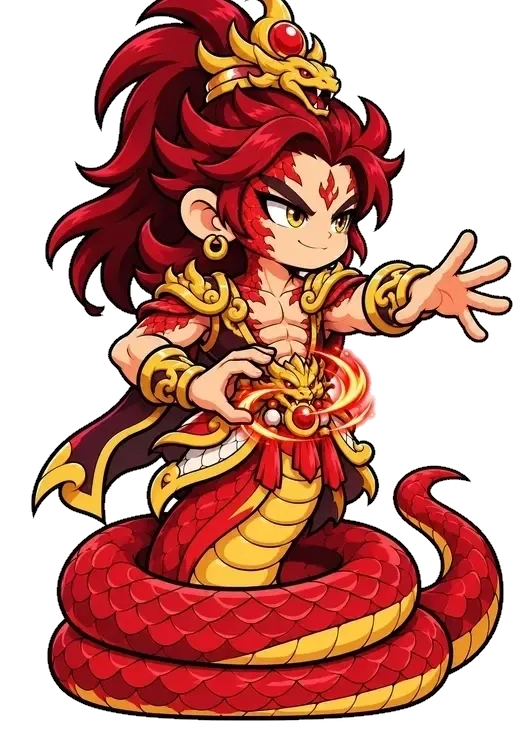
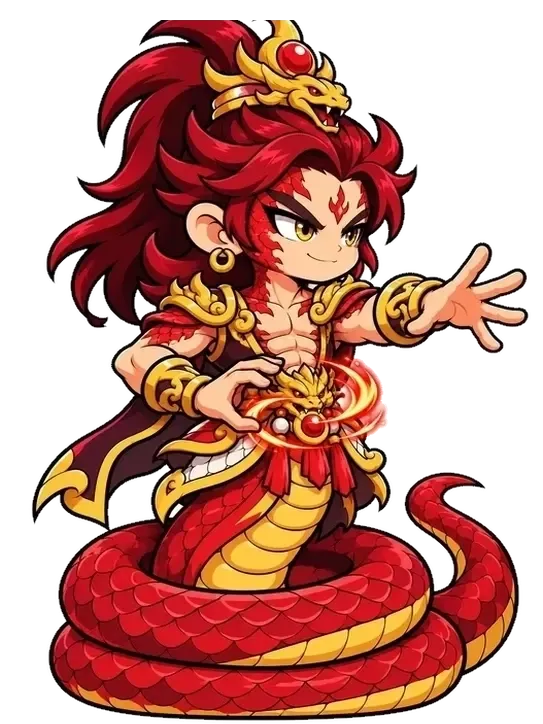
Hoan thanh dot 10: Khuong Hoang Hau, Mai Ba, Bach Hac Dong Tu (195 tuong), chuan hoa kich co dang

diff --git a/art/poses/hmeta.js b/art/poses/hmeta.js
@@ -1,1 +1,1 @@
-window.HPOSE = {"loichantu": {"H": 1201.8, "gnd": [660, 1395], "top": 0.015}, "thohanhton": {"H": 1196.0, "gnd": [512, 1387], "top": 0.033}, "thaiatchannhan": {"H": 1185.3, "gnd": [573, 1335], "top": 0.079}, "thancongbao": {"H": 1182.4, "gnd": [657, 1321], "top": 0.072}, "longnu": {"H": 1303.7, "gnd": [567, 1398], "top": 0.039}, "kimgiac": {"H": 1298.8, "gnd": [578, 1309], "top": 0.0}, "tieubachlong": {"H": 1265.8, "gnd": [517, 1412], "top": 0.018}, "thaibachkimtinh": {"H": 1135.9, "gnd": [604, 1321], "top": 0.106}, "culinhthan": {"H": 1254.2, "gnd": [575, 1394], "top": 0.026}, "hoangphongquai": {"H": 1087.4, "gnd": [479, 1364], "top": 0.026}, "khuongtanha": {"H": 1377.4, "gnd": [570, 1429], "top": 0.008}, "trieucongminh": {"H": 1368.7, "gnd": [572, 1420], "top": 0.007}, "bachcot": {"H": 1371.6, "gnd": [574, 1423], "top": 0.008}, "bodetosu": {"H": 1372.5, "gnd": [563, 1426], "top": 0.01}, "tranguyentu": {"H": 1327.9, "gnd": [551, 1403], "top": 0.025}, "hoangphiho": {"H": 1167.9, "gnd": [519, 1358], "top": 0.064}, "dienmau": {"H": 1308.5, "gnd": [543, 1398], "top": 0.035}, "thanhnguutinh": {"H": 1287.2, "gnd": [502, 1387], "top": 0.043}, "longvuong": {"H": 1262.0, "gnd": [591, 1418], "top": 0.01}, "dangthienngoc": {"H": 1246.5, "gnd": [535, 1378], "top": 0.066}, "kimtra": {"H": 1344.4, "gnd": [540, 1409], "top": 0.017}, "hachhung": {"H": 1286.2, "gnd": [533, 1387], "top": 0.046}, "thodia": {"H": 1212.5, "gnd": [479, 1341], "top": 0.066}, "giaochu": {"H": 1034.0, "gnd": [506, 1437], "top": 0.191}, "khongtuyen": {"H": 1276.5, "gnd": [568, 1423], "top": 0.019}, "nhiendang": {"H": 1207.6, "gnd": [467, 1367], "top": 0.026}, "thaisu": {"H": 1356.1, "gnd": [556, 1418], "top": 0.015}, "hoangmi": {"H": 1227.0, "gnd": [528, 1367], "top": 0.072}, "vanthu": {"H": 1276.5, "gnd": [538, 1395], "top": 0.015}, "quynhtieu": {"H": 1240.6, "gnd": [517, 1367], "top": 0.064}, "hoangthienhoa": {"H": 1375.5, "gnd": [555, 1432], "top": 0.012}, "viho": {"H": 1386.1, "gnd": [563, 1435], "top": 0.006}, "thachco": {"H": 1165.9, "gnd": [445, 1347], "top": 0.102}, "giaochu_s2": {"H": 1038, "gnd": [516, 1447], "top": 0.04}, "thailaoquan_s2": {"H": 1107, "gnd": [533, 1439], "top": 0.113}, "thailaoquan": {"H": 1106.8, "gnd": [534, 1439], "top": 0.171}, "hongquan": {"H": 1275.5, "gnd": [522, 1412], "top": 0.018}, "nguyenthuy": {"H": 1010.7, "gnd": [551, 1423], "top": 0.198}, "ngochoang": {"H": 1327.9, "gnd": [519, 1417], "top": 0.021}, "dilac": {"H": 1022.4, "gnd": [516, 1278], "top": 0.135}, "quangthanh": {"H": 1329.9, "gnd": [502, 1423], "top": 0.014}, "kimlinh": {"H": 1304.6, "gnd": [510, 1412], "top": 0.012}, "chanvu": {"H": 1107.7, "gnd": [557, 1338], "top": 0.086}, "vuongmau": {"H": 1330.8, "gnd": [502, 1417], "top": 0.011}, "phohien": {"H": 1318.2, "gnd": [465, 1418], "top": 0.003}, "daibang": {"H": 1179.5, "gnd": [489, 1361], "top": 0.04}, "ngocdinh": {"H": 1336.7, "gnd": [556, 1423], "top": 0.007}, "hoangbao": {"H": 1303.7, "gnd": [471, 1429], "top": 0.022}, "bachnhan": {"H": 1330.8, "gnd": [550, 1423], "top": 0.011}, "hattu": {"H": 1327.0, "gnd": [494, 1401], "top": 0.019}, "moctra": {"H": 1167.9, "gnd": [553, 1344], "top": 0.081}, "nganggiac": {"H": 1266.8, "gnd": [563, 1384], "top": 0.035}, "loicong": {"H": 1243.5, "gnd": [529, 1375], "top": 0.036}, "ngoctho": {"H": 1308.5, "gnd": [528, 1415], "top": 0.006}, "maonhat": {"H": 1223.2, "gnd": [535, 1360], "top": 0.028}, "linhcam": {"H": 1172.7, "gnd": [642, 1361], "top": 0.072}, "ngokhong": {"H": 1359.9, "gnd": [580, 1400], "top": 0.019}, "batgioi": {"H": 1476.0, "gnd": [615, 1421], "top": 0.017}, "nata": {"H": 1447.8, "gnd": [560, 1418], "top": 0.0}, "ngumavuong": {"H": 1306.8, "gnd": [620, 1410], "top": 0.012}, "honghainhi": {"H": 1260.4, "gnd": [560, 1405], "top": 0.0}, "quanam": {"H": 1144.3, "gnd": [560, 1440], "top": 0.0}, "datky": {"H": 1354.9, "gnd": [560, 1415], "top": 0.008}, "duongtang": {"H": 1434.5, "gnd": [570, 1410], "top": 0.012}, "duongtien": {"H": 1069.7, "gnd": [520, 1295], "top": 0.066}, "vantieu": {"H": 1401.3, "gnd": [560, 1415], "top": 0.006}, "satang": {"H": 1417.9, "gnd": [560, 1415], "top": 0.012}, "thietphien": {"H": 1369.8, "gnd": [560, 1416], "top": 0.015}, "litinh": {"H": 1353.2, "gnd": [560, 1416], "top": 0.007}, "hangnga": {"H": 1343.3, "gnd": [560, 1415], "top": 0.008}, "nuoa": {"H": 1243.5, "gnd": [532, 1361], "top": 0.023}, "tiepdan": {"H": 1124.2, "gnd": [545, 1359], "top": 0.075}, "chuande": {"H": 1261.0, "gnd": [458, 1425], "top": 0.039}, "nhulai": {"H": 1248.4, "gnd": [543, 1441], "top": 0.029}, "phuchy": {"H": 1245.5, "gnd": [496, 1381], "top": 0.04}, "thannong": {"H": 1194.1, "gnd": [496, 1358], "top": 0.066}, "hienvien": {"H": 1241.6, "gnd": [601, 1423], "top": 0.021}, "dabao": {"H": 1320.2, "gnd": [510, 1398], "top": 0.012}, "lucap": {"H": 1328.9, "gnd": [498, 1421], "top": 0.014}, "namcuc": {"H": 1113.6, "gnd": [599, 1299], "top": 0.052}, "diatang": {"H": 1133.0, "gnd": [581, 1319], "top": 0.073}, "lucnhi": {"H": 1300.8, "gnd": [500, 1398], "top": 0.025}, "cuukho": {"H": 1355.1, "gnd": [528, 1434], "top": 0.011}, "thanhsu": {"H": 1150.4, "gnd": [607, 1364], "top": 0.059}, "bachtuong": {"H": 1220.3, "gnd": [511, 1375], "top": 0.028}, "cuulinh": {"H": 1290.1, "gnd": [506, 1392], "top": 0.017}, "cuudau": {"H": 1291.1, "gnd": [535, 1397], "top": 0.03}, "bichtieu": {"H": 1245.5, "gnd": [501, 1370], "top": 0.037}, "magia": {"H": 1187.3, "gnd": [471, 1344], "top": 0.069}, "angiao": {"H": 1277.5, "gnd": [532, 1406], "top": 0.018}, "duongnham": {"H": 1256.1, "gnd": [448, 1387], "top": 0.036}, "vienhong": {"H": 1336.7, "gnd": [525, 1417], "top": 0.018}, "xichtinh": {"H": 1269.7, "gnd": [468, 1392], "top": 0.044}, "thanhhu": {"H": 1217.3, "gnd": [520, 1349], "top": 0.054}, "culuuton": {"H": 1240.6, "gnd": [481, 1381], "top": 0.047}, "linhcat": {"H": 1293.0, "gnd": [497, 1389], "top": 0.006}, "bilam": {"H": 1318.2, "gnd": [562, 1415], "top": 0.015}, "donghoa": {"H": 1295.0, "gnd": [532, 1403], "top": 0.015}, "vantrungtu": {"H": 1219.3, "gnd": [454, 1364], "top": 0.035}, "vuonglinhquan": {"H": 1358.0, "gnd": [575, 1423], "top": 0.012}, "hoangthientuong": {"H": 1312.4, "gnd": [532, 1406], "top": 0.028}, "nhuychantien": {"H": 1230.0, "gnd": [509, 1375], "top": 0.052}, "holuc": {"H": 1270.7, "gnd": [522, 1398], "top": 0.048}, "diadung": {"H": 1212.5, "gnd": [526, 1366], "top": 0.065}, "nhentinh": {"H": 1307.6, "gnd": [449, 1417], "top": 0.019}, "tenguu": {"H": 1149.5, "gnd": [603, 1324], "top": 0.079}, "ngaobinh": {"H": 1213.5, "gnd": [546, 1381], "top": 0.019}, "vodang": {"H": 1264.9, "gnd": [648, 1398], "top": 0.023}, "hongquan_s2": {"H": 1278.5, "gnd": [520, 1412], "top": 0.019}, "nguyenthuy_s2": {"H": 1105, "gnd": [551, 1447], "top": 0.106}, "nuoa_s2": {"H": 1247.4, "gnd": [530, 1361], "top": 0.022}, "tiepdan_s2": {"H": 1125.2, "gnd": [544, 1359], "top": 0.091}, "chuande_s2": {"H": 1269, "gnd": [460, 1423], "top": 0.029}, "nhulai_s2": {"H": 1248, "gnd": [540, 1447], "top": 0.028}, "loctinh": {"H": 1191.2, "gnd": [502, 1338], "top": 0.051}, "dalong": {"H": 1223.2, "gnd": [480, 1364], "top": 0.052}, "cuuvi": {"H": 1160.1, "gnd": [462, 1352], "top": 0.068}, "hoangsu": {"H": 1199.9, "gnd": [532, 1392], "top": 0.017}, "dethinh": {"H": 1356.1, "gnd": [560, 1435], "top": 0.011}, "thanhmao": {"H": 1300.8, "gnd": [588, 1432], "top": 0.011}, "laongoan": {"H": 1256.1, "gnd": [540, 1392], "top": 0.036}, "quylinh": {"H": 1327.9, "gnd": [515, 1409], "top": 0.017}, "duhoa": {"H": 1259.1, "gnd": [620, 1392], "top": 0.054}, "lunhac": {"H": 1227.0, "gnd": [447, 1397], "top": 0.057}, "hoalinh": {"H": 1184.4, "gnd": [483, 1384], "top": 0.01}, "latuyen": {"H": 1204.7, "gnd": [542, 1381], "top": 0.039}, "anhong": {"H": 1230.9, "gnd": [548, 1375], "top": 0.058}, "kimmaohong": {"H": 1175.6, "gnd": [468, 1349], "top": 0.059}, "nhithapbattu": {"H": 1264.9, "gnd": [536, 1401], "top": 0.019}, "maisonluc": {"H": 1270.7, "gnd": [440, 1381], "top": 0.036}, "thapthienquan": {"H": 1153.3, "gnd": [560, 1327], "top": 0.083}, "cuulongdaotuthanh": {"H": 1113.6, "gnd": [660, 1297], "top": 0.088}, "trinhluan": {"H": 1304.6, "gnd": [488, 1386], "top": 0.022}, "truongkhue": {"H": 1267.8, "gnd": [531, 1389], "top": 0.044}, "hongcam": {"H": 1312.4, "gnd": [546, 1421], "top": 0.017}, "dangcuucong": {"H": 1166.9, "gnd": [593, 1361], "top": 0.091}, "sunghachho": {"H": 1290.1, "gnd": [568, 1395], "top": 0.028}, "thapdienduong": {"H": 1253.2, "gnd": [533, 1375], "top": 0.036}, "nguytrung": {"H": 1200.9, "gnd": [493, 1378], "top": 0.059}, "phucloctho": {"H": 1352.2, "gnd": [530, 1423], "top": 0.015}, "daohanhthientoan": {"H": 1233.8, "gnd": [555, 1395], "top": 0.033}, "linhbaodaiphapsu": {"H": 1307.6, "gnd": [585, 1429], "top": 0.007}, "hoanglongchannhan": {"H": 1276.5, "gnd": [529, 1422], "top": 0.054}, "truongnhidinhquang": {"H": 1210.6, "gnd": [567, 1403], "top": 0.007}, "ovantien": {"H": 1168.8, "gnd": [571, 1355], "top": 0.084}, "thienlynhan": {"H": 1328.9, "gnd": [516, 1403], "top": 0.015}, "truongquephuong": {"H": 1295.0, "gnd": [494, 1378], "top": 0.018}, "manguyen": {"H": 1330.8, "gnd": [549, 1417], "top": 0.018}, "ovanhoa": {"H": 1356.1, "gnd": [551, 1435], "top": 0.008}, "longtuho": {"H": 1146.5, "gnd": [464, 1341], "top": 0.079}, "tayhailongvuong": {"H": 1251.3, "gnd": [544, 1389], "top": 0.015}, "nambaihailongvuong": {"H": 1286.2, "gnd": [524, 1395], "top": 0.019}, "tudainguyensoai": {"H": 1323.1, "gnd": [628, 1418], "top": 0.023}, "cuudieutinhquan": {"H": 1242.6, "gnd": [501, 1381], "top": 0.058}, "thatbatlahan": {"H": 1132.0, "gnd": [577, 1338], "top": 0.05}, "osaothienseu": {"H": 1281.4, "gnd": [505, 1412], "top": 0.004}, "anan": {"H": 1203.8, "gnd": [484, 1358], "top": 0.076}, "vanthanhlongvuong": {"H": 1252.3, "gnd": [528, 1370], "top": 0.033}, "thatdaithanh": {"H": 1235.8, "gnd": [528, 1380], "top": 0.044}, "dochanchannhan": {"H": 1240.6, "gnd": [561, 1367], "top": 0.044}, "tuythithattien": {"H": 1284.3, "gnd": [544, 1403], "top": 0.011}, "dunguyen": {"H": 1189.2, "gnd": [484, 1364], "top": 0.077}, "khaudan": {"H": 1247.4, "gnd": [554, 1341], "top": 0.032}, "handoclong": {"H": 1290.1, "gnd": [511, 1406], "top": 0.039}, "phonglam": {"H": 1174.7, "gnd": [573, 1364], "top": 0.068}, "tanhoan": {"H": 1178.5, "gnd": [640, 1364], "top": 0.081}, "lucdinhlucgiap": {"H": 1138.8, "gnd": [515, 1313], "top": 0.068}, "tycan": {"H": 1171.8, "gnd": [536, 1323], "top": 0.075}, "toho": {"H": 1132.0, "gnd": [462, 1308], "top": 0.054}, "hoangcon": {"H": 1145.6, "gnd": [519, 1305], "top": 0.08}, "baotinh": {"H": 1033.0, "gnd": [519, 1305], "top": 0.155}, "hungsonquan": {"H": 1040.8, "gnd": [533, 1304], "top": 0.145}, "thapbatcong": {"H": 1108.7, "gnd": [569, 1324], "top": 0.106}, "thoiphanquan": {"H": 1105.8, "gnd": [500, 1310], "top": 0.112}, "duongthaitong": {"H": 1170.8, "gnd": [567, 1326], "top": 0.073}, "nuvuongtayluong": {"H": 1333.8, "gnd": [537, 1426], "top": 0.007}, "sonthan": {"H": 1088.3, "gnd": [625, 1317], "top": 0.065}, "phongba": {"H": 1124.2, "gnd": [578, 1323], "top": 0.094}, "kinhhalongvuong": {"H": 1117.4, "gnd": [609, 1305], "top": 0.079}, "truvuong": {"H": 1230.9, "gnd": [504, 1338], "top": 0.025}, "coxuong": {"H": 1333.8, "gnd": [468, 1420], "top": 0.019}, "cophat": {"H": 1171.8, "gnd": [555, 1353], "top": 0.076}, "baapkhao": {"H": 1349.3, "gnd": [545, 1426], "top": 0.01}, "himy": {"H": 1134.9, "gnd": [515, 1322], "top": 0.09}, "phitrong": {"H": 1222.2, "gnd": [549, 1365], "top": 0.07}, "maisonthatquai": {"H": 1107.7, "gnd": [522, 1304], "top": 0.084}, "honthemavuong": {"H": 1184.4, "gnd": [239, 1398], "top": 0.083}, "ngocdiencongchua": {"H": 1115.5, "gnd": [528, 1324], "top": 0.09}, "thanhphongminhnguyet": {"H": 1208.6, "gnd": [518, 1350], "top": 0.062}, "langhutu": {"H": 1135.9, "gnd": [598, 1320], "top": 0.083}, "luubakham": {"H": 1272.6, "gnd": [490, 1395], "top": 0.037}, "thattiennu": {"H": 1272.6, "gnd": [471, 1384], "top": 0.043}, "xichcuoc": {"H": 1237.7, "gnd": [443, 1378], "top": 0.05}, "honglanmang": {"H": 1375.5, "gnd": [519, 1443], "top": 0.008}, "bachdienholy": {"H": 1317.3, "gnd": [459, 1417], "top": 0.01}, "bachhoatu": {"H": 1338.6, "gnd": [523, 1415], "top": 0.011}, "tranquangnhuy": {"H": 1148.5, "gnd": [600, 1338], "top": 0.101}, "vienthuthanh": {"H": 1299.8, "gnd": [553, 1420], "top": 0.011}, "bichthuykimtinhthu": {"H": 1166.9, "gnd": [536, 1328], "top": 0.065}, "namcungthich": {"H": 1338.6, "gnd": [507, 1429], "top": 0.021}};
+window.HPOSE = {"loichantu": {"H": 1201.8, "gnd": [660, 1395], "top": 0.015}, "thohanhton": {"H": 1196.0, "gnd": [512, 1387], "top": 0.033}, "thaiatchannhan": {"H": 1185.3, "gnd": [573, 1335], "top": 0.079}, "thancongbao": {"H": 1182.4, "gnd": [657, 1321], "top": 0.072}, "longnu": {"H": 1303.7, "gnd": [567, 1398], "top": 0.026}, "kimgiac": {"H": 1298.8, "gnd": [578, 1309], "top": 0.0}, "tieubachlong": {"H": 1265.8, "gnd": [517, 1412], "top": 0.018}, "thaibachkimtinh": {"H": 1135.9, "gnd": [604, 1321], "top": 0.106}, "culinhthan": {"H": 1254.2, "gnd": [575, 1394], "top": 0.026}, "hoangphongquai": {"H": 1087.4, "gnd": [479, 1364], "top": 0.026}, "khuongtanha": {"H": 1377.4, "gnd": [570, 1429], "top": 0.008}, "trieucongminh": {"H": 1368.7, "gnd": [572, 1420], "top": 0.007}, "bachcot": {"H": 1371.6, "gnd": [574, 1423], "top": 0.008}, "bodetosu": {"H": 1372.5, "gnd": [563, 1426], "top": 0.01}, "tranguyentu": {"H": 1327.9, "gnd": [551, 1403], "top": 0.025}, "hoangphiho": {"H": 1167.9, "gnd": [519, 1358], "top": 0.064}, "dienmau": {"H": 1308.5, "gnd": [543, 1398], "top": 0.035}, "thanhnguutinh": {"H": 1287.2, "gnd": [502, 1387], "top": 0.043}, "longvuong": {"H": 1262.0, "gnd": [591, 1418], "top": 0.01}, "dangthienngoc": {"H": 1246.5, "gnd": [535, 1378], "top": 0.066}, "kimtra": {"H": 1344.4, "gnd": [540, 1409], "top": 0.017}, "hachhung": {"H": 1286.2, "gnd": [533, 1387], "top": 0.046}, "thodia": {"H": 1212.5, "gnd": [479, 1341], "top": 0.066}, "giaochu": {"H": 1034.0, "gnd": [506, 1437], "top": 0.191}, "khongtuyen": {"H": 1276.5, "gnd": [568, 1423], "top": 0.019}, "nhiendang": {"H": 1207.6, "gnd": [467, 1367], "top": 0.026}, "thaisu": {"H": 1356.1, "gnd": [556, 1418], "top": 0.015}, "hoangmi": {"H": 1227.0, "gnd": [528, 1367], "top": 0.072}, "vanthu": {"H": 1276.5, "gnd": [538, 1395], "top": 0.015}, "quynhtieu": {"H": 1240.6, "gnd": [517, 1367], "top": 0.064}, "hoangthienhoa": {"H": 1375.5, "gnd": [555, 1432], "top": 0.012}, "viho": {"H": 1386.1, "gnd": [563, 1435], "top": 0.006}, "thachco": {"H": 1165.9, "gnd": [445, 1347], "top": 0.102}, "giaochu_s2": {"H": 1038, "gnd": [516, 1447], "top": 0.04}, "thailaoquan_s2": {"H": 1107, "gnd": [533, 1439], "top": 0.113}, "thailaoquan": {"H": 1106.8, "gnd": [534, 1439], "top": 0.171}, "hongquan": {"H": 1275.5, "gnd": [522, 1412], "top": 0.018}, "nguyenthuy": {"H": 1010.7, "gnd": [551, 1423], "top": 0.198}, "ngochoang": {"H": 1327.9, "gnd": [519, 1417], "top": 0.021}, "dilac": {"H": 1022.4, "gnd": [516, 1278], "top": 0.135}, "quangthanh": {"H": 1329.9, "gnd": [502, 1423], "top": 0.014}, "kimlinh": {"H": 1304.6, "gnd": [510, 1412], "top": 0.012}, "chanvu": {"H": 1107.7, "gnd": [557, 1338], "top": 0.086}, "vuongmau": {"H": 1330.8, "gnd": [502, 1417], "top": 0.011}, "phohien": {"H": 1318.2, "gnd": [465, 1418], "top": 0.003}, "daibang": {"H": 1179.5, "gnd": [489, 1361], "top": 0.04}, "ngocdinh": {"H": 1336.7, "gnd": [556, 1423], "top": 0.007}, "hoangbao": {"H": 1303.7, "gnd": [471, 1429], "top": 0.022}, "bachnhan": {"H": 1330.8, "gnd": [550, 1423], "top": 0.011}, "hattu": {"H": 1327.0, "gnd": [494, 1401], "top": 0.019}, "moctra": {"H": 1167.9, "gnd": [553, 1344], "top": 0.081}, "nganggiac": {"H": 1266.8, "gnd": [563, 1384], "top": 0.035}, "loicong": {"H": 1243.5, "gnd": [529, 1375], "top": 0.036}, "ngoctho": {"H": 1308.5, "gnd": [528, 1415], "top": 0.006}, "maonhat": {"H": 1223.2, "gnd": [535, 1360], "top": 0.028}, "linhcam": {"H": 1172.7, "gnd": [642, 1361], "top": 0.072}, "ngokhong": {"H": 1359.9, "gnd": [580, 1400], "top": 0.019}, "batgioi": {"H": 1476.0, "gnd": [615, 1421], "top": 0.017}, "nata": {"H": 1447.8, "gnd": [560, 1418], "top": 0.0}, "ngumavuong": {"H": 1306.8, "gnd": [620, 1410], "top": 0.012}, "honghainhi": {"H": 1260.4, "gnd": [560, 1405], "top": 0.0}, "quanam": {"H": 1144.3, "gnd": [560, 1440], "top": 0.0}, "datky": {"H": 1354.9, "gnd": [560, 1415], "top": 0.008}, "duongtang": {"H": 1434.5, "gnd": [570, 1410], "top": 0.012}, "duongtien": {"H": 1069.7, "gnd": [520, 1295], "top": 0.066}, "vantieu": {"H": 1401.3, "gnd": [560, 1415], "top": 0.006}, "satang": {"H": 1417.9, "gnd": [560, 1415], "top": 0.012}, "thietphien": {"H": 1369.8, "gnd": [560, 1416], "top": 0.015}, "litinh": {"H": 1353.2, "gnd": [560, 1416], "top": 0.007}, "hangnga": {"H": 1343.3, "gnd": [560, 1415], "top": 0.008}, "nuoa": {"H": 1243.5, "gnd": [532, 1361], "top": 0.023}, "tiepdan": {"H": 1124.2, "gnd": [545, 1359], "top": 0.075}, "chuande": {"H": 1261.0, "gnd": [458, 1425], "top": 0.039}, "nhulai": {"H": 1248.4, "gnd": [543, 1441], "top": 0.029}, "phuchy": {"H": 1245.5, "gnd": [496, 1381], "top": 0.04}, "thannong": {"H": 1194.1, "gnd": [496, 1358], "top": 0.066}, "hienvien": {"H": 1241.6, "gnd": [601, 1423], "top": 0.021}, "dabao": {"H": 1320.2, "gnd": [510, 1398], "top": 0.012}, "lucap": {"H": 1328.9, "gnd": [498, 1421], "top": 0.014}, "namcuc": {"H": 1113.6, "gnd": [599, 1299], "top": 0.052}, "diatang": {"H": 1133.0, "gnd": [581, 1319], "top": 0.073}, "lucnhi": {"H": 1300.8, "gnd": [500, 1398], "top": 0.025}, "cuukho": {"H": 1355.1, "gnd": [528, 1434], "top": 0.011}, "thanhsu": {"H": 1150.4, "gnd": [607, 1364], "top": 0.059}, "bachtuong": {"H": 1220.3, "gnd": [511, 1375], "top": 0.028}, "cuulinh": {"H": 1290.1, "gnd": [506, 1392], "top": 0.017}, "cuudau": {"H": 1291.1, "gnd": [535, 1397], "top": 0.03}, "bichtieu": {"H": 1245.5, "gnd": [501, 1370], "top": 0.037}, "magia": {"H": 1187.3, "gnd": [471, 1344], "top": 0.069}, "angiao": {"H": 1277.5, "gnd": [532, 1406], "top": 0.018}, "duongnham": {"H": 1256.1, "gnd": [448, 1387], "top": 0.036}, "vienhong": {"H": 1336.7, "gnd": [525, 1417], "top": 0.018}, "xichtinh": {"H": 1269.7, "gnd": [468, 1392], "top": 0.044}, "thanhhu": {"H": 1217.3, "gnd": [520, 1349], "top": 0.054}, "culuuton": {"H": 1240.6, "gnd": [481, 1381], "top": 0.047}, "linhcat": {"H": 1293.0, "gnd": [497, 1389], "top": 0.006}, "bilam": {"H": 1318.2, "gnd": [562, 1415], "top": 0.015}, "donghoa": {"H": 1295.0, "gnd": [532, 1403], "top": 0.015}, "vantrungtu": {"H": 1219.3, "gnd": [454, 1364], "top": 0.035}, "vuonglinhquan": {"H": 1358.0, "gnd": [575, 1423], "top": 0.012}, "hoangthientuong": {"H": 1312.4, "gnd": [532, 1406], "top": 0.028}, "nhuychantien": {"H": 1230.0, "gnd": [509, 1375], "top": 0.052}, "holuc": {"H": 1270.7, "gnd": [522, 1398], "top": 0.048}, "diadung": {"H": 1212.5, "gnd": [526, 1366], "top": 0.065}, "nhentinh": {"H": 1307.6, "gnd": [449, 1417], "top": 0.019}, "tenguu": {"H": 1149.5, "gnd": [603, 1324], "top": 0.079}, "ngaobinh": {"H": 1213.5, "gnd": [546, 1381], "top": 0.019}, "vodang": {"H": 1264.9, "gnd": [648, 1398], "top": 0.023}, "hongquan_s2": {"H": 1278.5, "gnd": [520, 1412], "top": 0.019}, "nguyenthuy_s2": {"H": 1105, "gnd": [551, 1447], "top": 0.106}, "nuoa_s2": {"H": 1247.4, "gnd": [530, 1361], "top": 0.022}, "tiepdan_s2": {"H": 1125.2, "gnd": [544, 1359], "top": 0.091}, "chuande_s2": {"H": 1269, "gnd": [460, 1423], "top": 0.029}, "nhulai_s2": {"H": 1248, "gnd": [540, 1447], "top": 0.028}, "loctinh": {"H": 1191.2, "gnd": [502, 1338], "top": 0.051}, "dalong": {"H": 1223.2, "gnd": [480, 1364], "top": 0.052}, "cuuvi": {"H": 1160.1, "gnd": [462, 1352], "top": 0.068}, "hoangsu": {"H": 1199.9, "gnd": [532, 1392], "top": 0.017}, "dethinh": {"H": 1356.1, "gnd": [560, 1435], "top": 0.011}, "thanhmao": {"H": 1300.8, "gnd": [588, 1432], "top": 0.011}, "laongoan": {"H": 1256.1, "gnd": [540, 1392], "top": 0.036}, "quylinh": {"H": 1327.9, "gnd": [515, 1409], "top": 0.017}, "duhoa": {"H": 1259.1, "gnd": [620, 1392], "top": 0.054}, "lunhac": {"H": 1227.0, "gnd": [447, 1397], "top": 0.057}, "hoalinh": {"H": 1184.4, "gnd": [483, 1384], "top": 0.01}, "latuyen": {"H": 1204.7, "gnd": [542, 1381], "top": 0.039}, "anhong": {"H": 1230.9, "gnd": [548, 1375], "top": 0.058}, "kimmaohong": {"H": 1175.6, "gnd": [468, 1349], "top": 0.059}, "nhithapbattu": {"H": 1264.9, "gnd": [536, 1401], "top": 0.019}, "maisonluc": {"H": 1270.7, "gnd": [440, 1381], "top": 0.036}, "thapthienquan": {"H": 1153.3, "gnd": [560, 1327], "top": 0.083}, "cuulongdaotuthanh": {"H": 1113.6, "gnd": [660, 1297], "top": 0.088}, "trinhluan": {"H": 1304.6, "gnd": [488, 1386], "top": 0.022}, "truongkhue": {"H": 1267.8, "gnd": [531, 1389], "top": 0.044}, "hongcam": {"H": 1312.4, "gnd": [546, 1421], "top": 0.017}, "dangcuucong": {"H": 1166.9, "gnd": [593, 1361], "top": 0.091}, "sunghachho": {"H": 1290.1, "gnd": [568, 1395], "top": 0.028}, "thapdienduong": {"H": 1253.2, "gnd": [533, 1375], "top": 0.036}, "nguytrung": {"H": 1200.9, "gnd": [493, 1378], "top": 0.059}, "phucloctho": {"H": 1352.2, "gnd": [530, 1423], "top": 0.015}, "daohanhthientoan": {"H": 1233.8, "gnd": [555, 1395], "top": 0.033}, "linhbaodaiphapsu": {"H": 1307.6, "gnd": [585, 1429], "top": 0.007}, "hoanglongchannhan": {"H": 1276.5, "gnd": [529, 1422], "top": 0.054}, "truongnhidinhquang": {"H": 1210.6, "gnd": [567, 1403], "top": 0.007}, "ovantien": {"H": 1168.8, "gnd": [571, 1355], "top": 0.084}, "thienlynhan": {"H": 1328.9, "gnd": [516, 1403], "top": 0.015}, "truongquephuong": {"H": 1295.0, "gnd": [494, 1378], "top": 0.018}, "manguyen": {"H": 1330.8, "gnd": [549, 1417], "top": 0.018}, "ovanhoa": {"H": 1356.1, "gnd": [551, 1435], "top": 0.008}, "longtuho": {"H": 1146.5, "gnd": [464, 1341], "top": 0.079}, "tayhailongvuong": {"H": 1251.3, "gnd": [544, 1389], "top": 0.015}, "nambaihailongvuong": {"H": 1286.2, "gnd": [524, 1395], "top": 0.019}, "tudainguyensoai": {"H": 1323.1, "gnd": [628, 1418], "top": 0.023}, "cuudieutinhquan": {"H": 1242.6, "gnd": [501, 1381], "top": 0.058}, "thatbatlahan": {"H": 1132.0, "gnd": [577, 1338], "top": 0.05}, "osaothienseu": {"H": 1281.4, "gnd": [505, 1412], "top": 0.004}, "anan": {"H": 1203.8, "gnd": [484, 1358], "top": 0.076}, "vanthanhlongvuong": {"H": 1252.3, "gnd": [528, 1370], "top": 0.033}, "thatdaithanh": {"H": 1235.8, "gnd": [528, 1380], "top": 0.044}, "dochanchannhan": {"H": 1240.6, "gnd": [561, 1367], "top": 0.044}, "tuythithattien": {"H": 1284.3, "gnd": [544, 1403], "top": 0.011}, "dunguyen": {"H": 1189.2, "gnd": [484, 1364], "top": 0.077}, "khaudan": {"H": 1247.4, "gnd": [554, 1341], "top": 0.032}, "handoclong": {"H": 1290.1, "gnd": [511, 1406], "top": 0.039}, "phonglam": {"H": 1174.7, "gnd": [573, 1364], "top": 0.068}, "tanhoan": {"H": 1178.5, "gnd": [640, 1364], "top": 0.081}, "lucdinhlucgiap": {"H": 1138.8, "gnd": [515, 1313], "top": 0.068}, "tycan": {"H": 1171.8, "gnd": [536, 1323], "top": 0.075}, "toho": {"H": 1132.0, "gnd": [462, 1308], "top": 0.054}, "hoangcon": {"H": 1145.6, "gnd": [519, 1305], "top": 0.08}, "baotinh": {"H": 1033.0, "gnd": [519, 1305], "top": 0.155}, "hungsonquan": {"H": 1040.8, "gnd": [533, 1304], "top": 0.145}, "thapbatcong": {"H": 1108.7, "gnd": [569, 1324], "top": 0.106}, "thoiphanquan": {"H": 1105.8, "gnd": [500, 1310], "top": 0.112}, "duongthaitong": {"H": 1170.8, "gnd": [567, 1326], "top": 0.073}, "nuvuongtayluong": {"H": 1333.8, "gnd": [537, 1426], "top": 0.007}, "sonthan": {"H": 1088.3, "gnd": [625, 1317], "top": 0.065}, "phongba": {"H": 1124.2, "gnd": [578, 1323], "top": 0.094}, "kinhhalongvuong": {"H": 1117.4, "gnd": [609, 1305], "top": 0.079}, "truvuong": {"H": 1230.9, "gnd": [504, 1338], "top": 0.025}, "coxuong": {"H": 1333.8, "gnd": [468, 1420], "top": 0.019}, "cophat": {"H": 1171.8, "gnd": [555, 1353], "top": 0.076}, "baapkhao": {"H": 1349.3, "gnd": [545, 1426], "top": 0.01}, "himy": {"H": 1134.9, "gnd": [515, 1322], "top": 0.09}, "phitrong": {"H": 1222.2, "gnd": [549, 1365], "top": 0.07}, "maisonthatquai": {"H": 1107.7, "gnd": [522, 1304], "top": 0.084}, "honthemavuong": {"H": 1184.4, "gnd": [239, 1398], "top": 0.083}, "ngocdiencongchua": {"H": 1115.5, "gnd": [528, 1324], "top": 0.09}, "thanhphongminhnguyet": {"H": 1208.6, "gnd": [518, 1350], "top": 0.062}, "langhutu": {"H": 1135.9, "gnd": [598, 1320], "top": 0.083}, "luubakham": {"H": 1272.6, "gnd": [490, 1395], "top": 0.037}, "thattiennu": {"H": 1272.6, "gnd": [471, 1384], "top": 0.043}, "xichcuoc": {"H": 1237.7, "gnd": [443, 1378], "top": 0.05}, "honglanmang": {"H": 1375.5, "gnd": [519, 1443], "top": 0.008}, "bachdienholy": {"H": 1317.3, "gnd": [459, 1417], "top": 0.01}, "bachhoatu": {"H": 1338.6, "gnd": [523, 1415], "top": 0.011}, "tranquangnhuy": {"H": 1148.5, "gnd": [600, 1338], "top": 0.101}, "vienthuthanh": {"H": 1299.8, "gnd": [553, 1420], "top": 0.011}, "bichthuykimtinhthu": {"H": 1166.9, "gnd": [536, 1328], "top": 0.065}, "namcungthich": {"H": 1338.6, "gnd": [507, 1429], "top": 0.021}, "khuonghoanghau": {"H": 1356.1, "gnd": [483, 1423], "top": 0.003}, "maiba": {"H": 1368.7, "gnd": [522, 1432], "top": 0.012}, "bachhacdongtu": {"H": 1224.1, "gnd": [531, 1384], "top": 0.066}};

diff --git a/index.html b/index.html
@@ -14,26 +14,26 @@
 <link rel="preconnect" href="https://fonts.googleapis.com">
 <link rel="preconnect" href="https://fonts.gstatic.com" crossorigin>
 <link href="https://fonts.googleapis.com/css2?family=Baloo+2:wght@500;600;700;800&family=Dancing+Script:wght@700&display=swap" rel="stylesheet">
-<link rel="stylesheet" href="css/style.css?v=1795790633">
-<link rel="stylesheet" href="css/themes.css?v=1795790633">
+<link rel="stylesheet" href="css/style.css?v=1795791259">
+<link rel="stylesheet" href="css/themes.css?v=1795791259">
 </head>
 <body>
 <div id="app">
   <canvas id="game"></canvas>
   <div id="ui"></div>
 </div>
-<script src="js/data.js?v=1795790633"></script><script src="art/enemies/meta.js?v=1795790633"></script><script src="art/ssrfx/aura_c.js?v=1795790633"></script>
-  <script src="art/poses/hmeta.js?v=1795790633"></script>
-<script src="js/art.js?v=1795790633"></script>
-<script src="art/anim/manifest.js?v=1795790633"></script>
-<script src="js/rig.js?v=1795790633"></script>
-<script src="art/rig/all.js?v=1795790633"></script>
-<script src="js/layered.js?v=1795790633"></script>
-<script src="art/mesh/index.js?v=1795790633"></script>
-<script src="js/meshrig.js?v=1795790633"></script>
-<script src="art/skel/index.js?v=1795790633"></script>
-<script src="js/skel.js?v=1795790633"></script>
-<script src="js/vfx.js?v=1795790633"></script>
-<script src="js/main.js?v=1795790633"></script>
+<script src="js/data.js?v=1795791259"></script><script src="art/enemies/meta.js?v=1795791259"></script><script src="art/ssrfx/aura_c.js?v=1795791259"></script>
+  <script src="art/poses/hmeta.js?v=1795791259"></script>
+<script src="js/art.js?v=1795791259"></script>
+<script src="art/anim/manifest.js?v=1795791259"></script>
+<script src="js/rig.js?v=1795791259"></script>
+<script src="art/rig/all.js?v=1795791259"></script>
+<script src="js/layered.js?v=1795791259"></script>
+<script src="art/mesh/index.js?v=1795791259"></script>
+<script src="js/meshrig.js?v=1795791259"></script>
+<script src="art/skel/index.js?v=1795791259"></script>
+<script src="js/skel.js?v=1795791259"></script>
+<script src="js/vfx.js?v=1795791259"></script>
+<script src="js/main.js?v=1795791259"></script>
 </body>
 </html>

diff --git a/bang-than-tien.html b/bang-than-tien.html
@@ -282,9 +282,9 @@ const D = [
  ['Phong Lâm', 'Đại tướng Thương', 'P', 'nhan', 'phap', 'R', 'Thuỷ quả khói đen (phun khói từ miệng)', 'Đánh Na Tra, bị Hoàng Thiên Hoá chém', 'R'],
  ['Tân Hoàn', 'Lôi Bộ thiên tướng', 'P', 'triet', 'sat', 'R', 'Cánh thịt · búa sét', 'Có cánh bay, sau được phong vào Lôi Bộ', 'R'],
  ['Nam Cung Thích · Tán Nghi Sinh', 'Tướng nhà Chu', 'P', 'nhan', 'sat', 'A', 'Đại đao', 'Hai đại tướng và mưu thần trung thành của Văn Vương', 'A'],
- ['Khương Hoàng Hậu', 'Chính cung Trụ Vương', 'P', 'nhan', 'dan', 'A', 'Đức hạnh', 'Bị Đát Kỷ hãm hại, móc mắt, đốt tay mà chết', ''],
- ['Mai Bá · Giao Cách', 'Trung thần nhà Thương', 'P', 'nhan', 'tran', 'A', 'Lời can gián', 'Bị Trụ Vương xử bào lạc và lột mặt vì can gián', ''],
- ['Bạch Hạc Đồng Tử', 'Hạc tiên Ngọc Hư Cung', 'P', 'xien', 'dan', 'A', 'Cánh hạc', 'Truyền lệnh Nguyên Thuỷ, hộ tống Khương Tử Nha', ''],
+ ['Khương Hoàng Hậu', 'Chính cung Trụ Vương', 'P', 'nhan', 'dan', 'A', 'Đức hạnh', 'Bị Đát Kỷ hãm hại, móc mắt, đốt tay mà chết', 'A'],
+ ['Mai Bá · Giao Cách', 'Trung thần nhà Thương', 'P', 'nhan', 'tran', 'A', 'Lời can gián', 'Bị Trụ Vương xử bào lạc và lột mặt vì can gián', 'A'],
+ ['Bạch Hạc Đồng Tử', 'Hạc tiên Ngọc Hư Cung', 'P', 'xien', 'dan', 'A', 'Cánh hạc', 'Truyền lệnh Nguyên Thuỷ, hộ tống Khương Tử Nha', 'A'],
 ];
 const TC = Object.fromEntries(TIERS.map(t => [t[0], t[1]]));
 const F = { tier: 'all', role: 'all', fac: 'all', src: 'all', game: 'all', q: '' };

diff --git a/js/data.js b/js/data.js
@@ -1218,7 +1218,7 @@ const DOM_NEED = { tamthanh: 'Có Hồng Quân, hoặc đủ Tam Thanh (Thái Th
 })();
 HEROES.ngokhong.ult.name = 'Như Ý Định Hải'; HEROES.ngokhong.ult.desc = 'Kim Cô Bổng trong tay lớn dần thành cột chống trời rồi nện thẳng xuống chỗ quái đông nhất 520% công, đất nứt; tạo 2 phân thân 7 giây.';
 HEROES.nata.ult.name = 'Hoả Tiêm Thương Vạn Ảnh'; HEROES.nata.ult.desc = 'Lao tới đâm liên hoàn hàng chục ảnh thương lửa (5 × 50% công), nhát cuối đâm thủng không trung, thương lửa xuyên cả sân 250% công và thiêu đốt.';
-const NO_ART = new Set(["khuonghoanghau", "maiba", "bachhacdongtu"]);   // đợt 9: bỏ khỏi đây khi đủ ảnh (tướng ẩn không vào Chiêu Mộ/đội hình)
+const NO_ART = new Set([]);   // đợt 9: bỏ khỏi đây khi đủ ảnh (tướng ẩn không vào Chiêu Mộ/đội hình)
 (function hideNoArt() {
   for (const L of [SSR_POOL, SR_POOL, R_POOL]) for (let i = L.length - 1; i >= 0; i--) if (NO_ART.has(L[i])) L.splice(i, 1);
   for (const k in TIER_TABLE) TIER_TABLE[k] = TIER_TABLE[k].filter(id => !NO_ART.has(id));

diff --git a/js/main.js b/js/main.js
@@ -2863,7 +2863,7 @@ const UCFG = {
   bichthuykimtinhthu: {"t": "summon", "obj": "water_beast", "size": 260, "col": "#7fc8ff", "waves": 1},
   namcungthich: {"t": "smash", "obj": "zhou_saber", "size": 460, "col": "#ffd34d"},
   khuonghoanghau: {"t": "heal", "obj": "jade_ruyi_queen", "size": 210, "col": "#ffd34d"},
-  maiba: {"t": "drop", "obj": "memorial_tablet", "size": 230, "col": "#d0a060"},
+  maiba: {"t": "drop", "obj": "memorial_tablet", "size": 61, "col": "#d0a060"},
   bachhacdongtu: {"t": "heal", "obj": "crane_feather_fan", "size": 210, "col": "#ffd34d"},
   giaochu: { t: 'rain', obj: 'tru_sword', n: 8, size: 110, col: '#ff5a3a' },
   khongtuyen: { t: 'wind', obj: 'peacock_fan', size: 220, col: '#9fffc0' },
